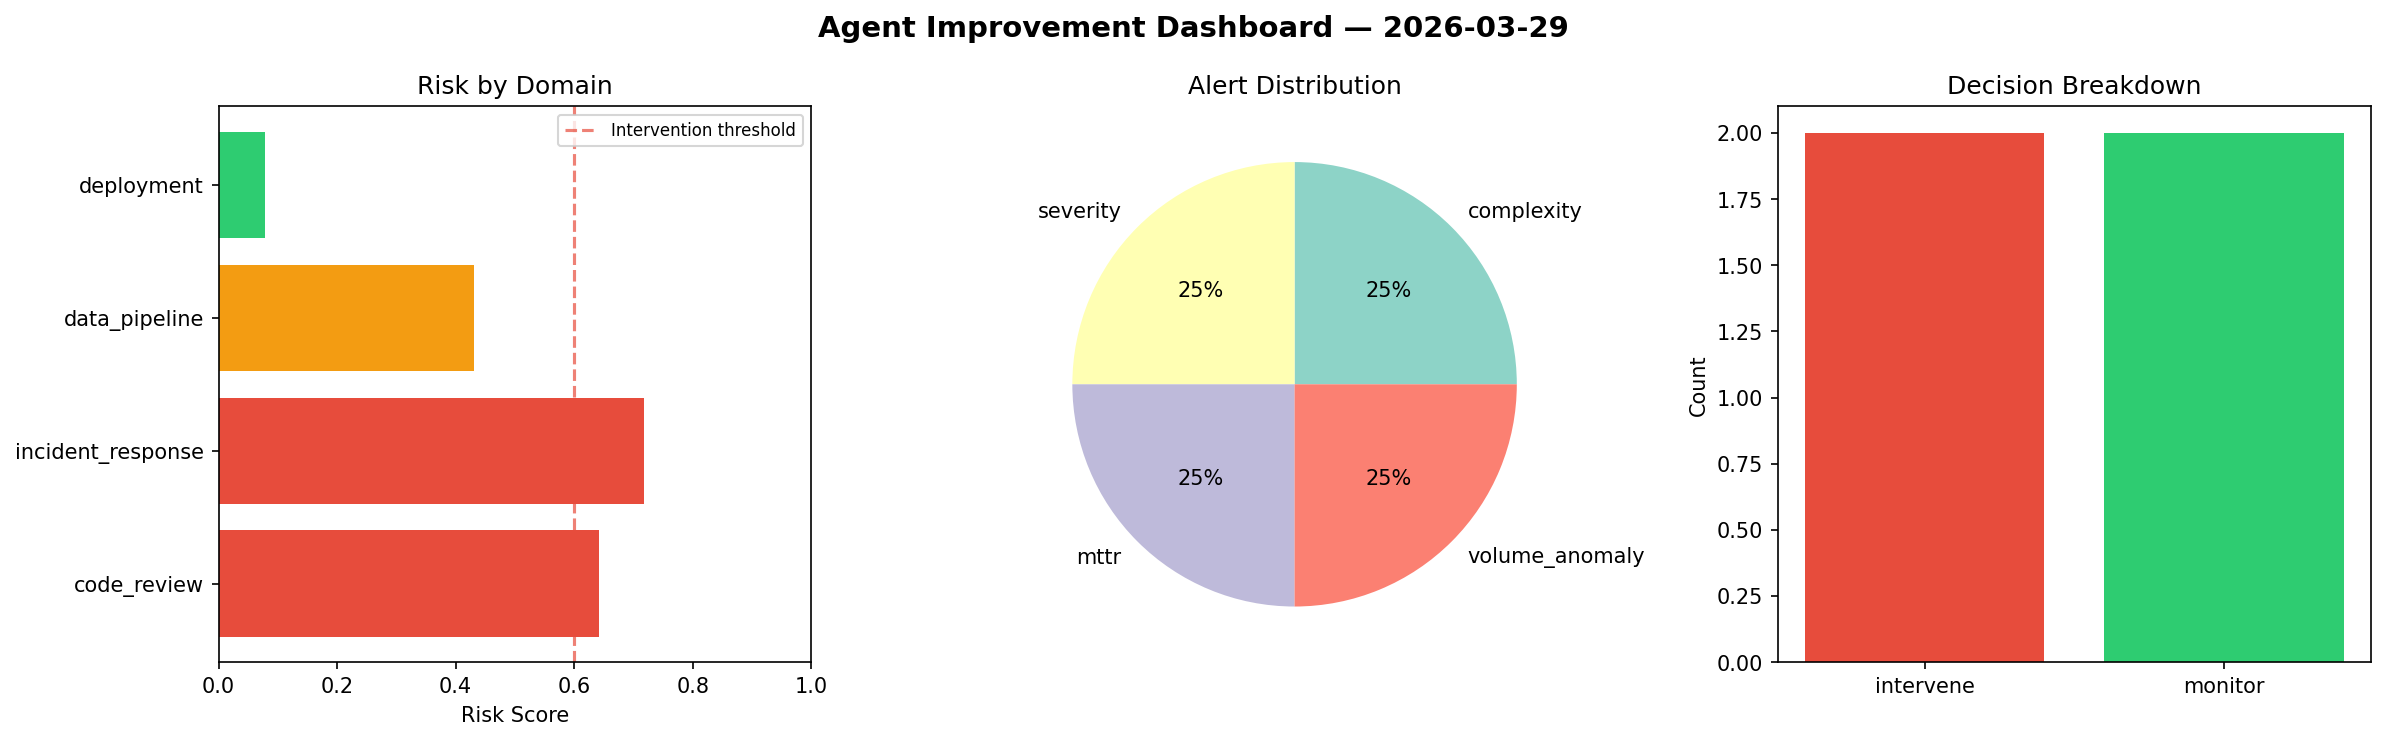
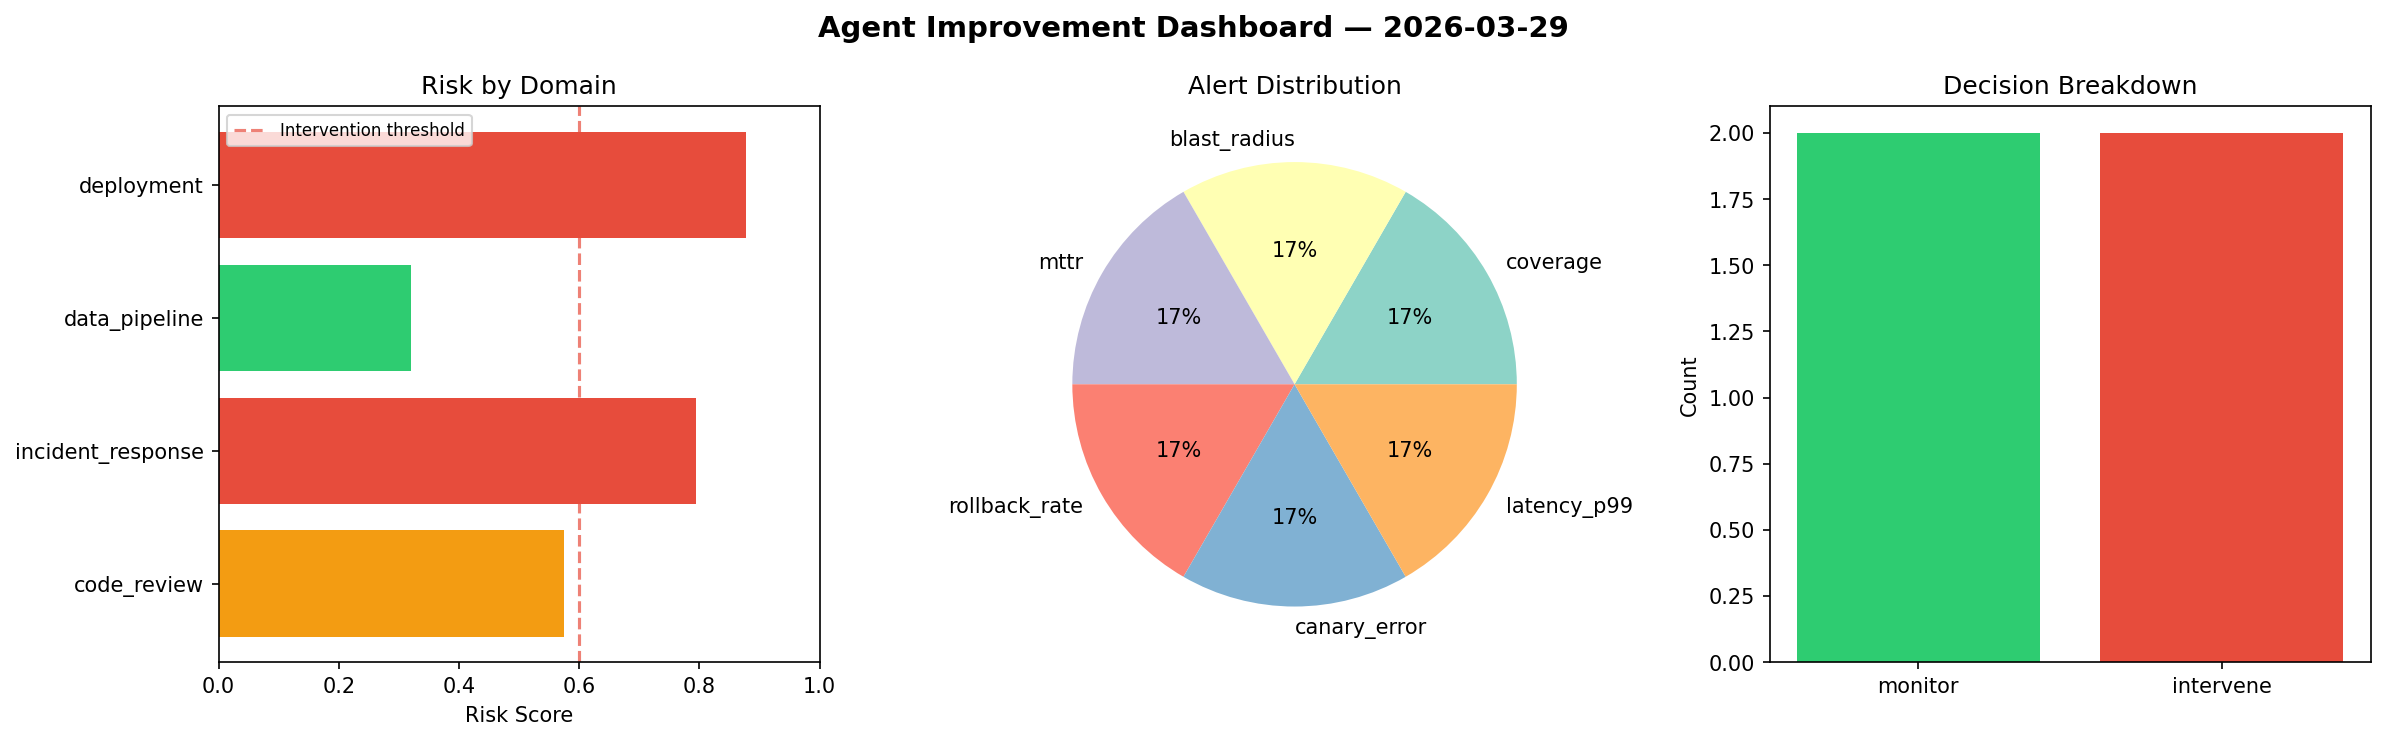
agent-improvement: daily cycle 2026-03-29T08:59

diff --git a/logs/2026-03-29.md b/logs/2026-03-29.md
@@ -1,6 +1,6 @@
 # Agent Improvement Report — 2026-03-29
 
-**Cycle ID:** `a734c5f1` | **Avg Risk:** 0.4671 | **Interventions:** 2/4
+**Cycle ID:** `24f1f7aa` | **Avg Risk:** 0.6421 | **Interventions:** 2/4
 
 ![Dashboard](2026-03-29_dashboard.png)
 
@@ -10,18 +10,18 @@
 
 | Domain | Risk Score | Decision | Alerts |
 |--------|-----------|----------|--------|
-| code_review | 0.6415 | intervene | complexity |
-| incident_response | 0.7181 | intervene | severity, mttr |
-| data_pipeline | 0.4304 | monitor | volume_anomaly |
-| deployment | 0.0784 | monitor | none |
+| code_review | 0.5746 | monitor | coverage |
+| incident_response | 0.7951 | intervene | blast_radius, mttr |
+| data_pipeline | 0.3205 | monitor | none |
+| deployment | 0.8782 | intervene | rollback_rate, canary_error, latency_p99 |
 
 ## Delta vs Yesterday
 
 | Domain | Today | Yesterday | Change |
 |--------|-------|-----------|--------|
-| code_review | 0.6415 | 0.5276 | 📈 21.6% |
-| incident_response | 0.7181 | 0.5439 | 📈 32.0% |
-| data_pipeline | 0.4304 | 0.6187 | 📉 -30.4% |
-| deployment | 0.0784 | 0.6387 | 📉 -87.7% |
+| code_review | 0.5746 | 0.5276 | 📈 8.9% |
+| incident_response | 0.7951 | 0.5439 | 📈 46.2% |
+| data_pipeline | 0.3205 | 0.6187 | 📉 -48.2% |
+| deployment | 0.8782 | 0.6387 | 📈 37.5% |
 
-**Refinement:** `{'adjustment': 'maintain', 'trend': 'improving', 'window': 4}`
+**Refinement:** `{'adjustment': 'tighten_thresholds', 'trend': 'degrading', 'window': 4}`
